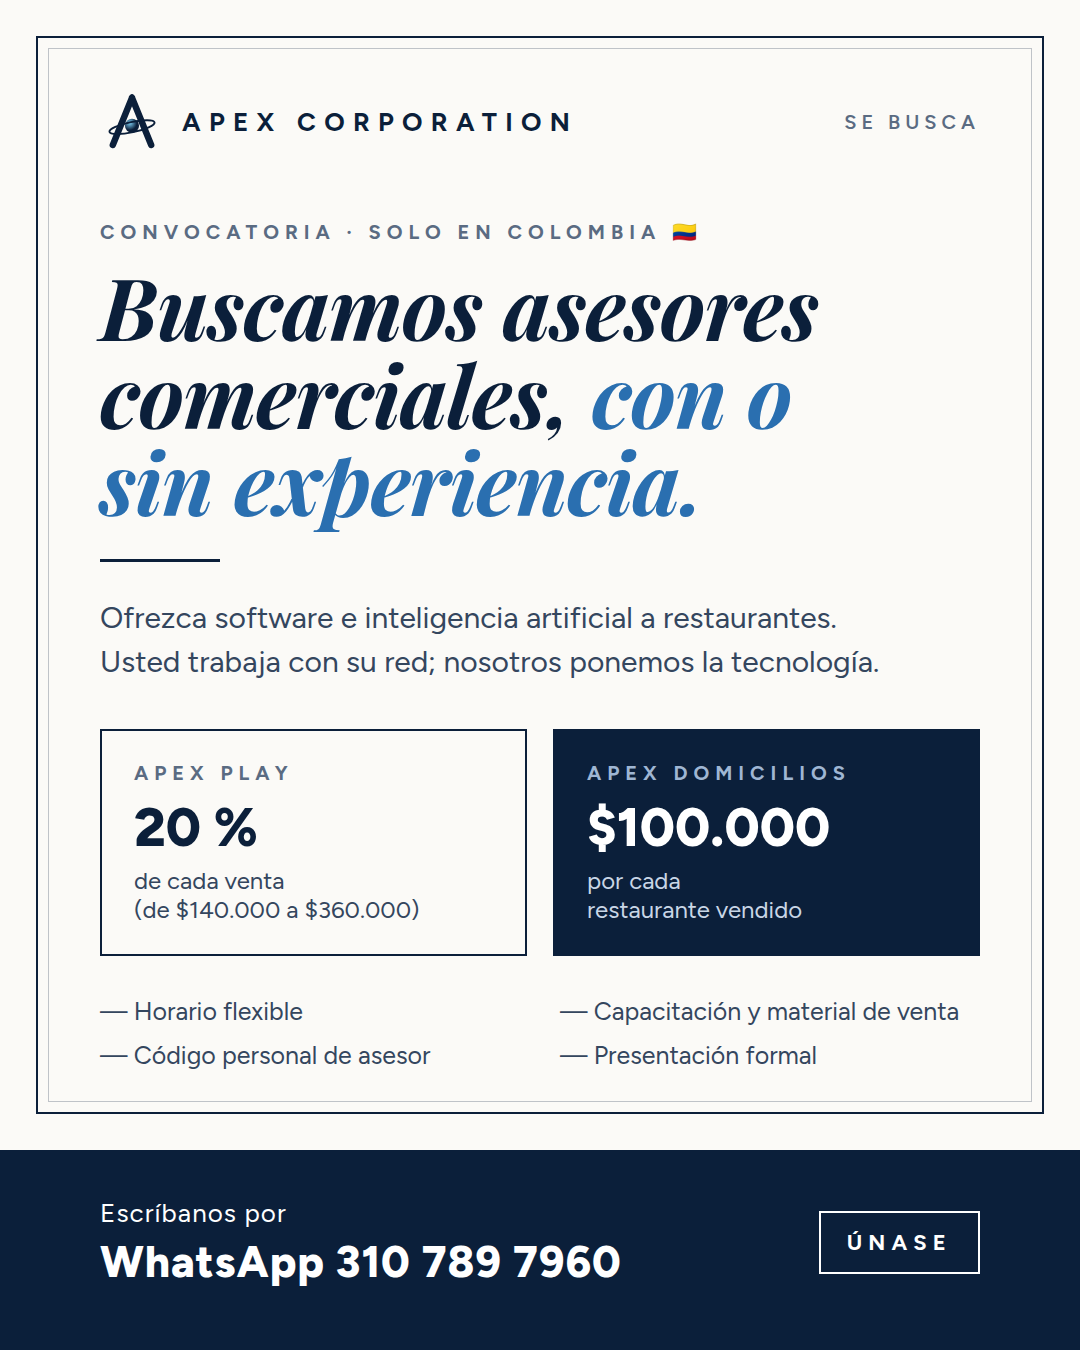
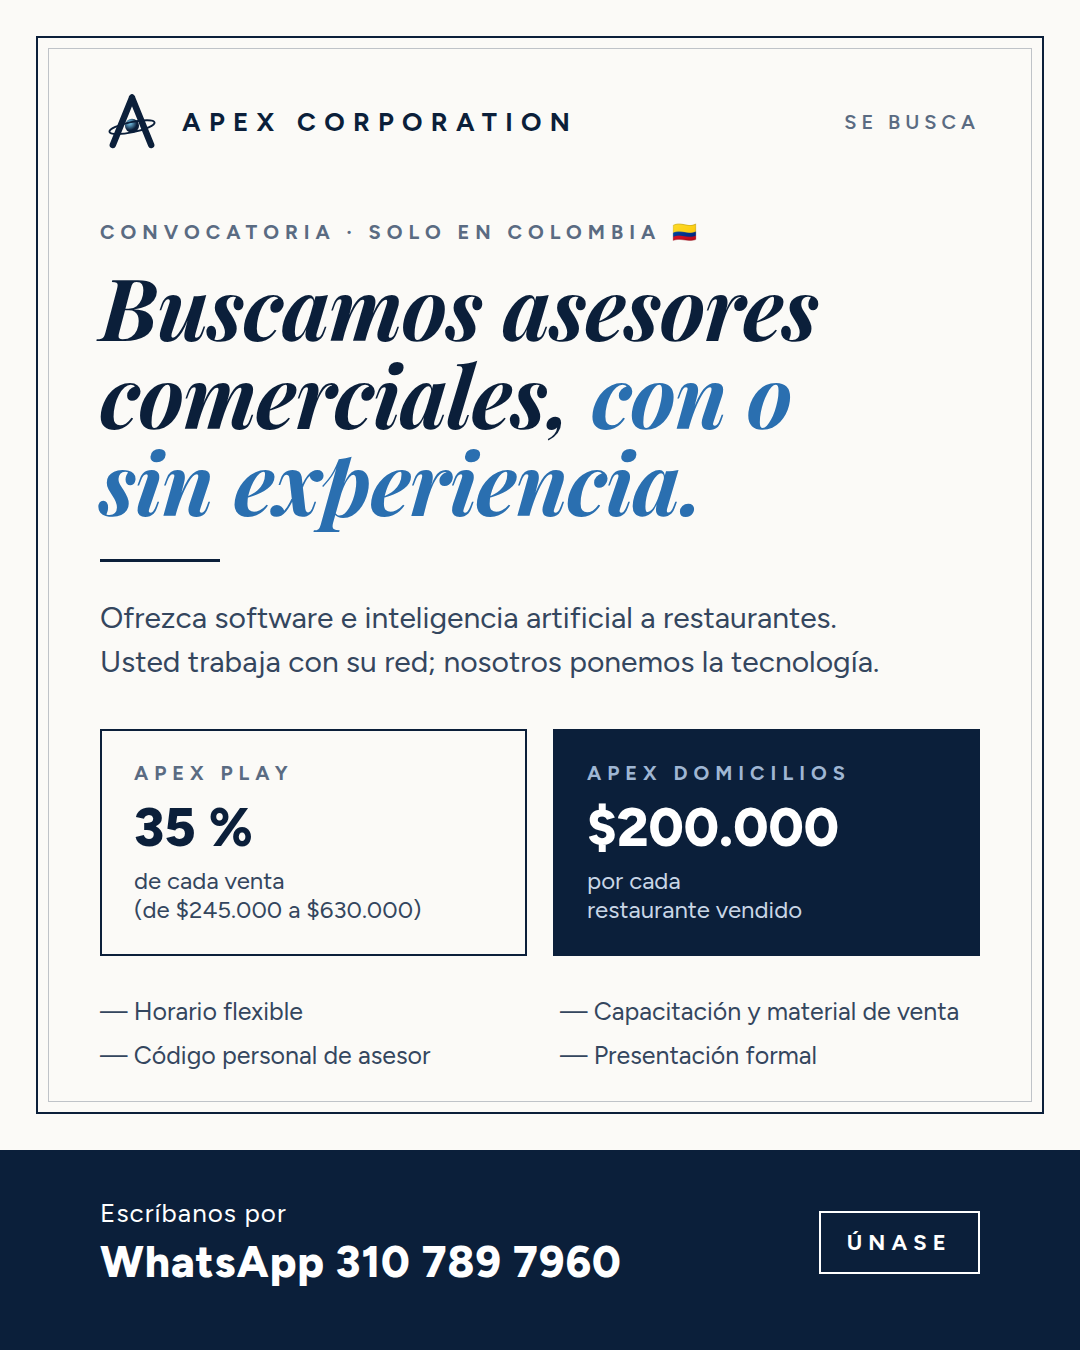
Reclutamiento con comisiones nuevas (Play 35 %, Domicilios $200.000), con y sin número
Claude-Session: https://claude.ai/code/session_01Pcgrj9bEyTxcRDycAFVu2Q

Changed region(s): [[0.5806, 0.5911, 0.7944, 0.6533], [0.1833, 0.6533, 0.3972, 0.6844], [0.1222, 0.5911, 0.2444, 0.6222]]

diff --git a/produccion/redes/piezas/hacer.py b/produccion/redes/piezas/hacer.py
@@ -47,12 +47,24 @@ redes = pagina('''<div style="position:absolute;top:220px;left:100px;right:100px
   <h1>Buscamos asesores<br>comerciales, <em>con o<br>sin experiencia.</em></h1><div class="linea"></div>
   <p class="sub">Ofrezca software e inteligencia artificial a restaurantes. Usted trabaja con su red; nosotros ponemos la tecnología.</p>
   <div style="display:grid;grid-template-columns:1fr 1fr;gap:26px;margin-top:46px">
-    <div style="border:2px solid #0b1f3a;padding:30px 32px"><div class="et" style="margin-bottom:10px">APEX PLAY</div><div style="font:800 54px Figtree">20 %</div><div style="font-size:24px;color:#34465e;margin-top:6px">de cada venta<br>(de $140.000 a $360.000)</div></div>
-    <div style="border:2px solid #0b1f3a;padding:30px 32px;background:#0b1f3a;color:#fff"><div class="et" style="margin-bottom:10px;color:#9fb6d3">APEX DOMICILIOS</div><div style="font:800 54px Figtree">$100.000</div><div style="font-size:24px;color:#c9d6e6;margin-top:6px">por cada<br>restaurante vendido</div></div>
+    <div style="border:2px solid #0b1f3a;padding:30px 32px"><div class="et" style="margin-bottom:10px">APEX PLAY</div><div style="font:800 54px Figtree">35 %</div><div style="font-size:24px;color:#34465e;margin-top:6px">de cada venta<br>(de $245.000 a $630.000)</div></div>
+    <div style="border:2px solid #0b1f3a;padding:30px 32px;background:#0b1f3a;color:#fff"><div class="et" style="margin-bottom:10px;color:#9fb6d3">APEX DOMICILIOS</div><div style="font:800 54px Figtree">$200.000</div><div style="font-size:24px;color:#c9d6e6;margin-top:6px">por cada<br>restaurante vendido</div></div>
   </div>
   <div style="display:grid;grid-template-columns:1fr 1fr;gap:14px 40px;margin-top:40px;font-size:25px;color:#34465e">
     <div>— Horario flexible</div><div>— Capacitación y material de venta</div><div>— Código personal de asesor</div><div>— Presentación formal</div></div></div>''',
   "SE BUSCA", "Escríbanos por", WA, "ÚNASE")
+# 1d · Igual a 1c, sin número (para enviar por WhatsApp): con o sin experiencia, solo Colombia, con número
+redes_wa = pagina('''<div style="position:absolute;top:220px;left:100px;right:100px">
+  <div class="et">CONVOCATORIA · SOLO EN COLOMBIA 🇨🇴</div>
+  <h1>Buscamos asesores<br>comerciales, <em>con o<br>sin experiencia.</em></h1><div class="linea"></div>
+  <p class="sub">Ofrezca software e inteligencia artificial a restaurantes. Usted trabaja con su red; nosotros ponemos la tecnología.</p>
+  <div style="display:grid;grid-template-columns:1fr 1fr;gap:26px;margin-top:46px">
+    <div style="border:2px solid #0b1f3a;padding:30px 32px"><div class="et" style="margin-bottom:10px">APEX PLAY</div><div style="font:800 54px Figtree">35 %</div><div style="font-size:24px;color:#34465e;margin-top:6px">de cada venta<br>(de $245.000 a $630.000)</div></div>
+    <div style="border:2px solid #0b1f3a;padding:30px 32px;background:#0b1f3a;color:#fff"><div class="et" style="margin-bottom:10px;color:#9fb6d3">APEX DOMICILIOS</div><div style="font:800 54px Figtree">$200.000</div><div style="font-size:24px;color:#c9d6e6;margin-top:6px">por cada<br>restaurante vendido</div></div>
+  </div>
+  <div style="display:grid;grid-template-columns:1fr 1fr;gap:14px 40px;margin-top:40px;font-size:25px;color:#34465e">
+    <div>— Horario flexible</div><div>— Capacitación y material de venta</div><div>— Código personal de asesor</div><div>— Presentación formal</div></div></div>''',
+  "SE BUSCA", "¿Le interesa?", "Responda este mensaje", "ÚNASE")
 # 1b · Reclutamiento sin experiencia (plan junior → senior)
 junior = pagina('''<div style="position:absolute;top:220px;left:100px;right:100px">
   <div class="et">CONVOCATORIA · TODO EL PAÍS</div>
@@ -96,7 +108,7 @@ async def main():
     from playwright.async_api import async_playwright
     async with async_playwright() as p:
         br = await p.chromium.launch(executable_path="/opt/pw-browsers/chromium-1194/chrome-linux/chrome")
-        for n, h in [("1-Reclutamiento-asesores", reclutar), ("1b-Reclutamiento-sin-experiencia", junior), ("1c-Reclutamiento-redes", redes), ("2-Apex-para-restaurantes", vender), ("3-Tarifario", tarifas)]:
+        for n, h in [("1-Reclutamiento-asesores", reclutar), ("1b-Reclutamiento-sin-experiencia", junior), ("1c-Reclutamiento-redes", redes), ("1d-Reclutamiento-redes-sin-numero", redes_wa), ("2-Apex-para-restaurantes", vender), ("3-Tarifario", tarifas)]:
             pg = await br.new_page(viewport={"width": 1080, "height": 1350}); await pg.set_content(h); await pg.wait_for_timeout(400)
             await pg.screenshot(path=SAL + f"Apex-{n}.png"); await pg.close()
         await br.close()
